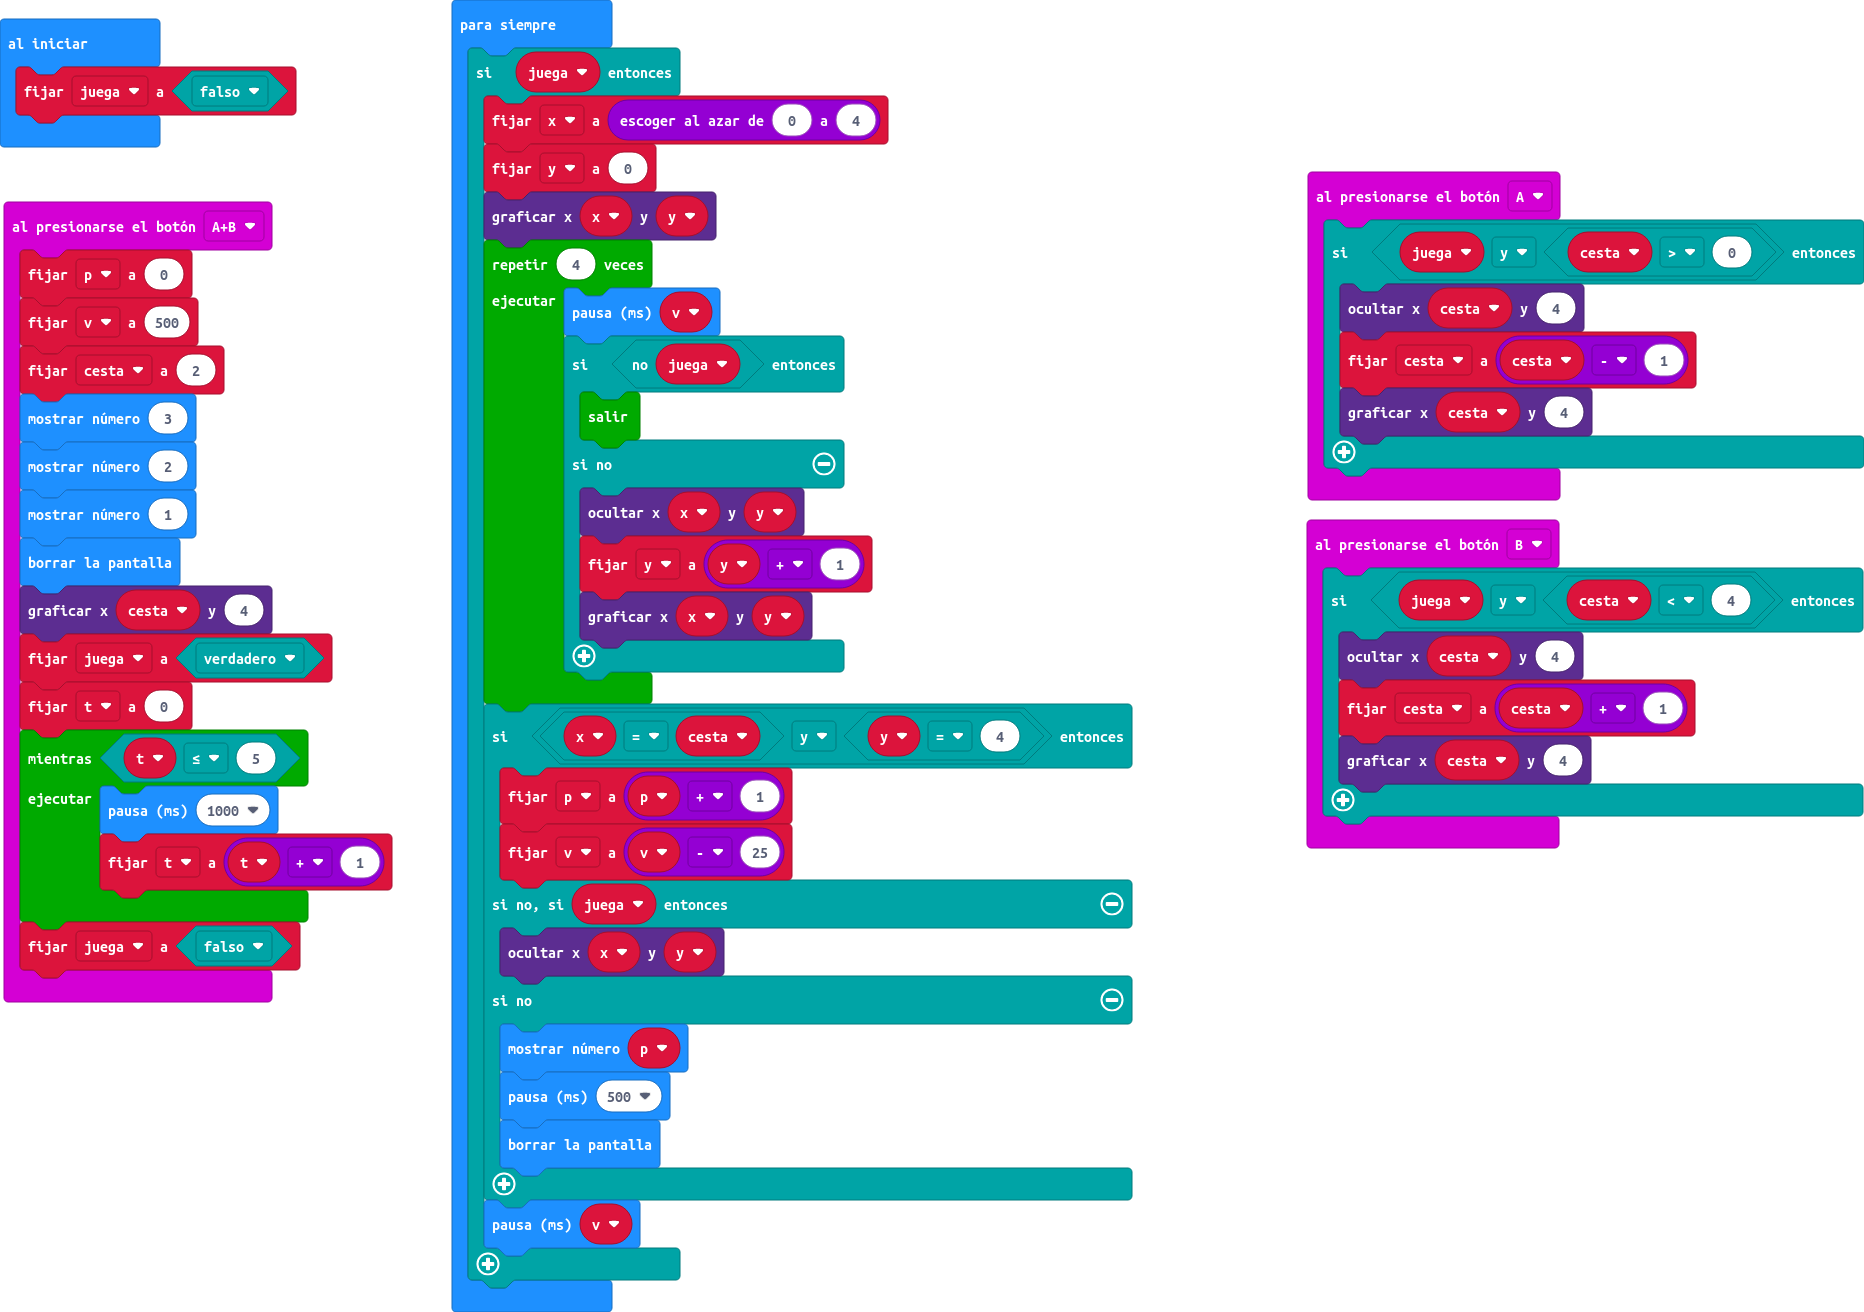
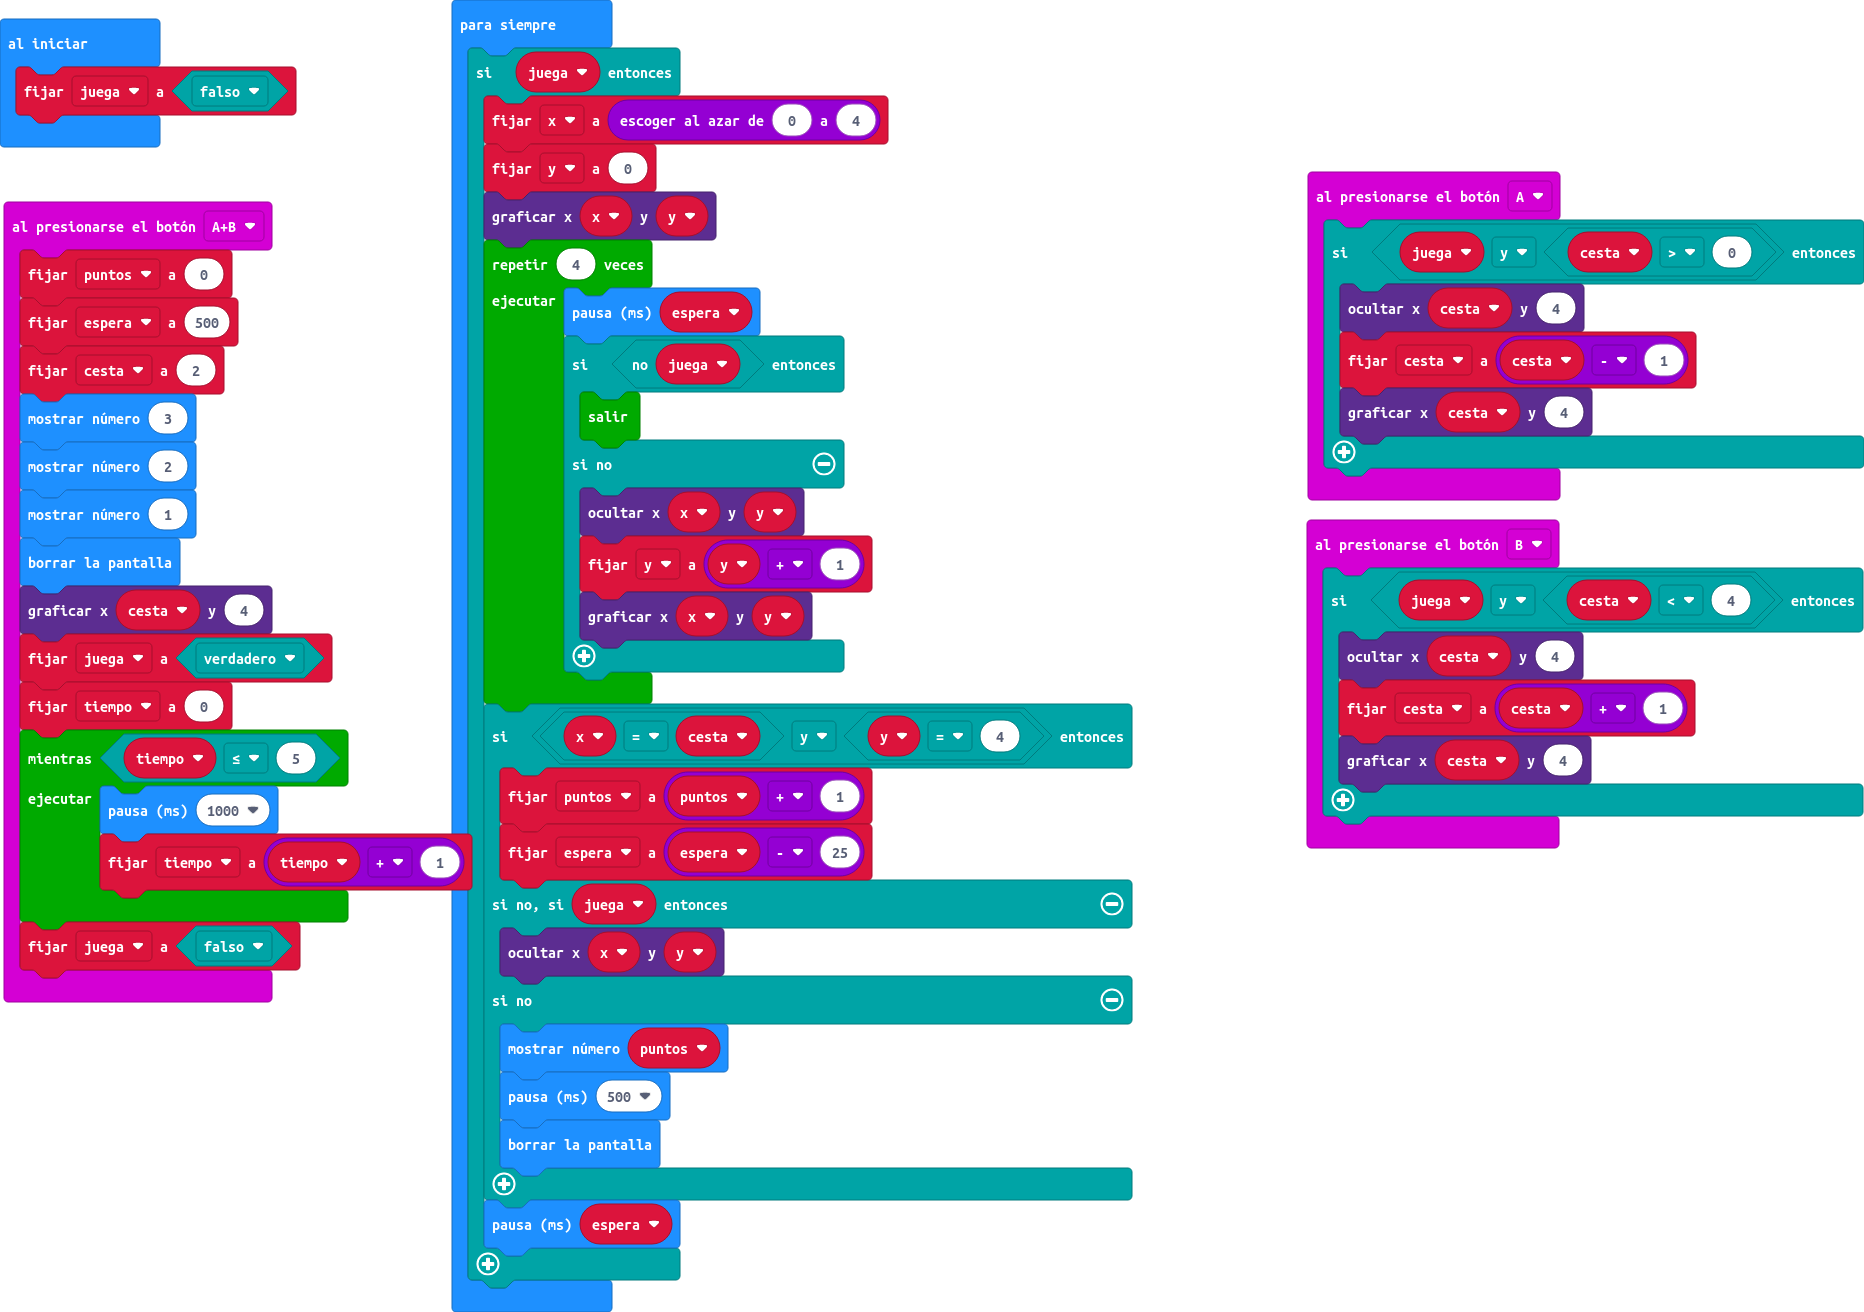
Actualizar main.blocks, main.ts

diff --git a/main.ts b/main.ts
@@ -6,8 +6,8 @@ input.onButtonPressed(Button.A, function () {
     }
 })
 input.onButtonPressed(Button.AB, function () {
-    p = 0
-    v = 500
+    puntos = 0
+    espera = 500
     cesta = 2
     basic.showNumber(3)
     basic.showNumber(2)
@@ -15,10 +15,10 @@ input.onButtonPressed(Button.AB, function () {
     basic.clearScreen()
     led.plot(cesta, 4)
     juega = true
-    t = 0
-    while (t <= 5) {
+    tiempo = 0
+    while (tiempo <= 5) {
         basic.pause(1000)
-        t = t + 1
+        tiempo = tiempo + 1
     }
     juega = false
 })
@@ -31,9 +31,9 @@ input.onButtonPressed(Button.B, function () {
 })
 let y = 0
 let x = 0
-let t = 0
-let v = 0
-let p = 0
+let tiempo = 0
+let espera = 0
+let puntos = 0
 let cesta = 0
 let juega = false
 juega = false
@@ -43,7 +43,7 @@ basic.forever(function () {
         y = 0
         led.plot(x, y)
         for (let index = 0; index < 4; index++) {
-            basic.pause(v)
+            basic.pause(espera)
             if (!(juega)) {
                 break;
             } else {
@@ -53,15 +53,15 @@ basic.forever(function () {
             }
         }
         if (x == cesta && y == 4) {
-            p = p + 1
-            v = v - 25
+            puntos = puntos + 1
+            espera = espera - 25
         } else if (juega) {
             led.unplot(x, y)
         } else {
-            basic.showNumber(p)
+            basic.showNumber(puntos)
             basic.pause(500)
             basic.clearScreen()
         }
-        basic.pause(v)
+        basic.pause(espera)
     }
 })
